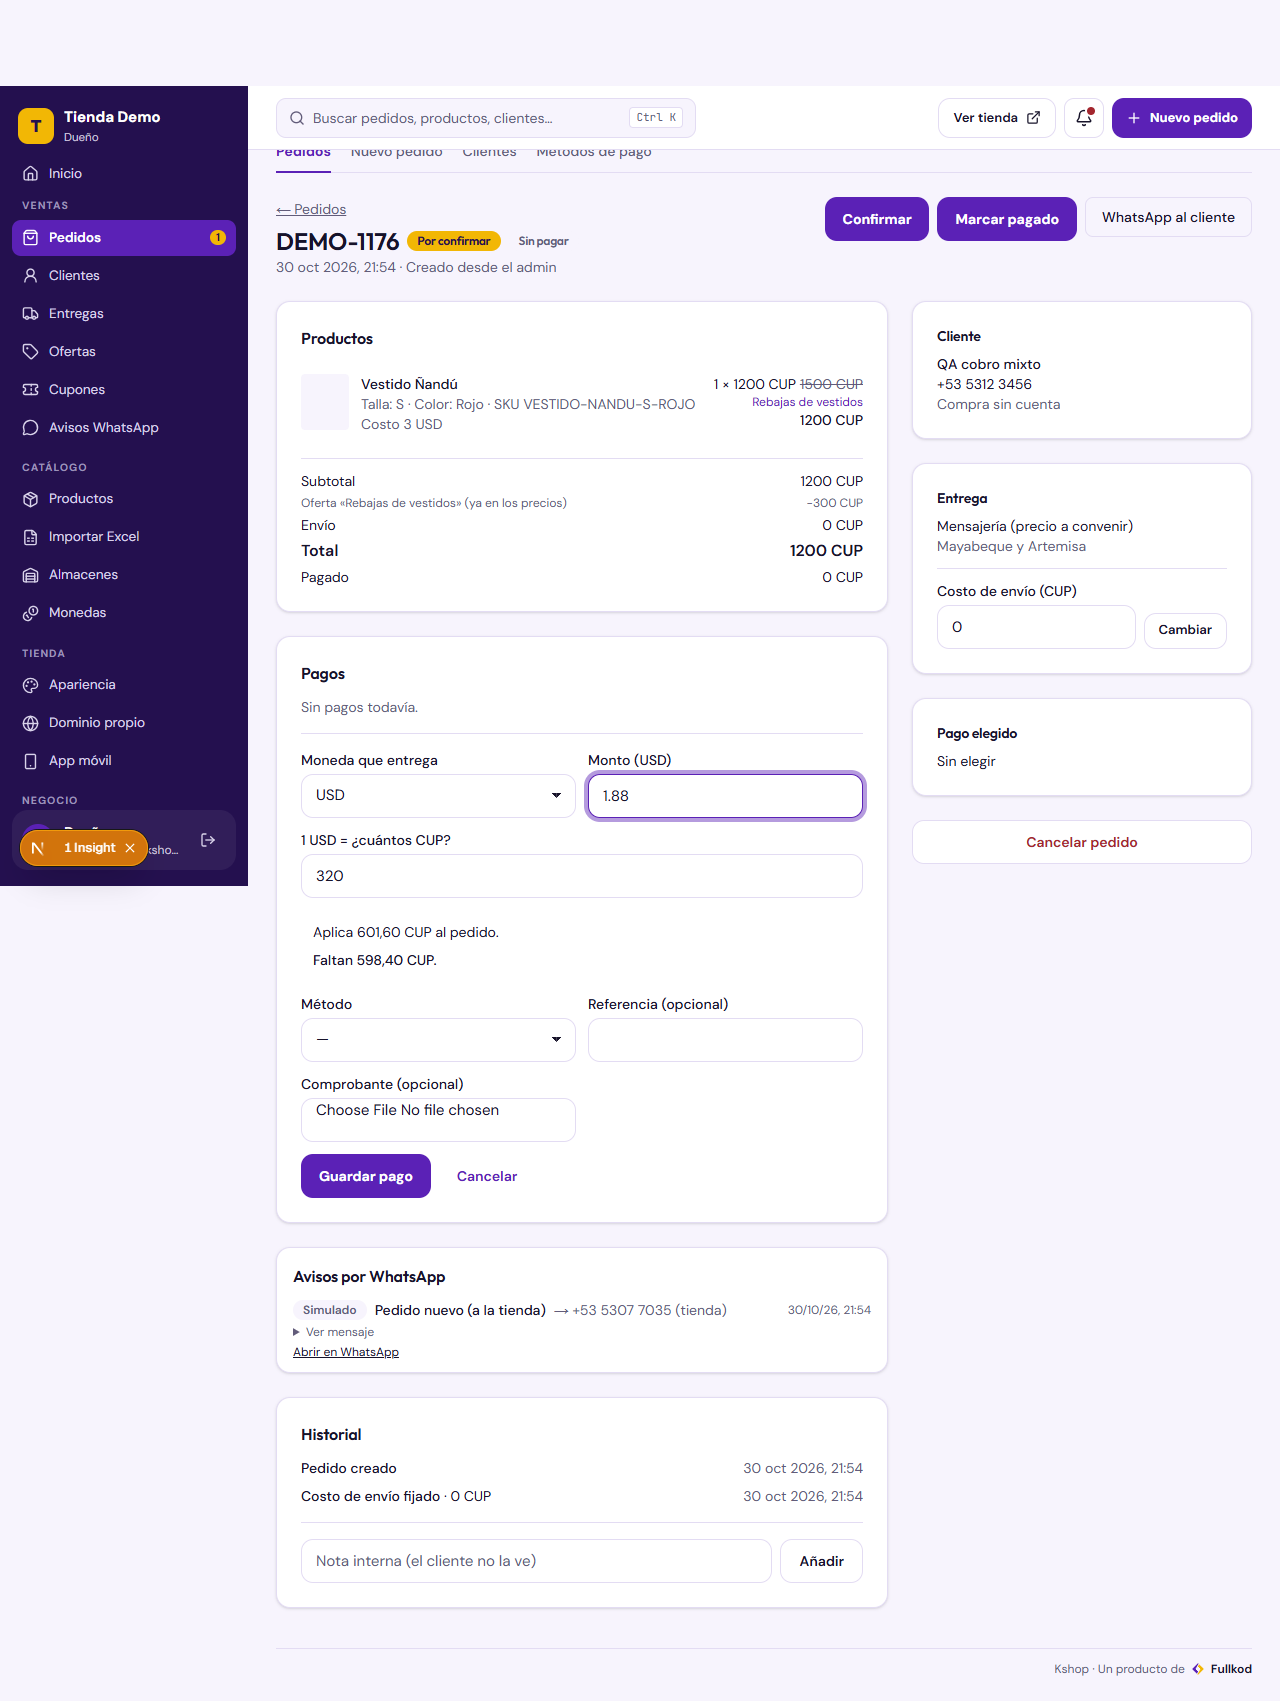
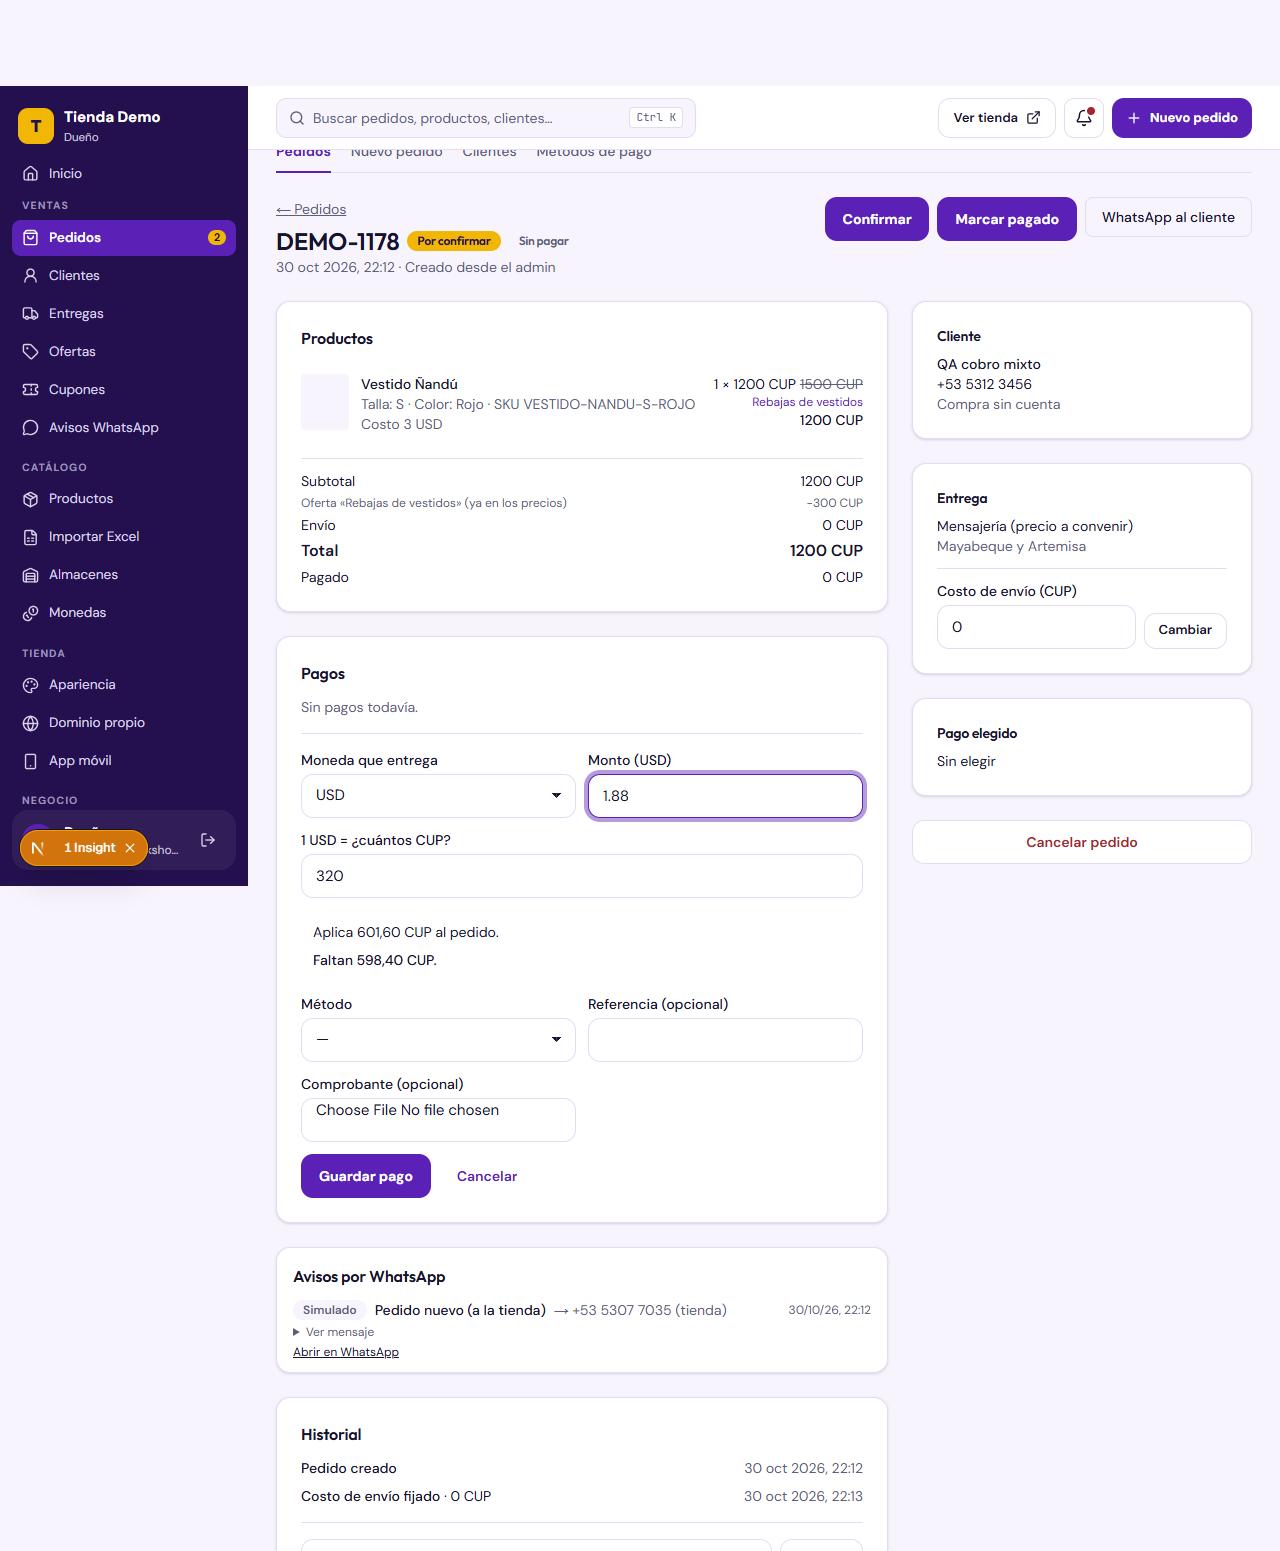
fix(orders): the payment form works on the subtotal while shipping is to agree
Without a total the form proposed nothing and said neither what was missing
nor the change, so any amount went through in silence.

diff --git a/packages/admin/src/orders/OrderDetail.tsx b/packages/admin/src/orders/OrderDetail.tsx
@@ -309,7 +309,8 @@ export function OrderDetail({
           <PaymentsCard
             orderId={order.id}
             currency={currency as CurrencyCode}
-            remaining={total === null ? null : Math.max(0, total - paid)}
+            remaining={Math.max(0, (total ?? Number(order.subtotal) - Number(order.discountTotal)) - paid)}
+            shippingPending={total === null}
             loadRates={() => api.orders(store.id).paymentRates()}
             payments={payments}
             refunds={refunds}
@@ -452,6 +453,7 @@ function PaymentsCard({
   orderId,
   currency,
   remaining,
+  shippingPending,
   loadRates,
   payments,
   refunds,
@@ -463,7 +465,9 @@ function PaymentsCard({
 }: {
   orderId: string;
   currency: CurrencyCode;
-  remaining: number | null;
+  /** Without a total yet (shipping to agree), of the subtotal. */
+  remaining: number;
+  shippingPending: boolean;
   loadRates: () => Promise<PaymentRates>;
   payments: {
     id: string;
@@ -648,8 +652,9 @@ function PaymentsCard({
               )}
             </div>
           )}
-          {preview && remaining !== null && remaining > 0 && (
+          {preview && remaining > 0 && (
             <div className="flex flex-col gap-2 rounded-md bg-muted p-3 text-sm sm:col-span-2" role="status">
+              {shippingPending && <p>Envío por definir: se calcula sobre el subtotal.</p>}
               {!same && <p>Aplica {formatMoney(preview.applied, currency)} al pedido.</p>}
               {preview.missing > 0 && (
                 <p className="font-medium">Faltan {formatMoney(preview.missing, currency)}.</p>
